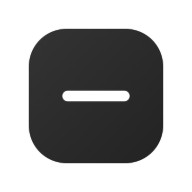
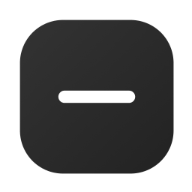
chore: 이미지 배경 있는걸로 수정

Changed region(s): [[0.0938, 0.0938, 0.9062, 0.9062], [0.2812, 0.4688, 0.7188, 0.5625]]

diff --git a/frontend/src/app/layout.tsx b/frontend/src/app/layout.tsx
@@ -34,7 +34,7 @@ export const metadata: Metadata = {
   manifest: '/manifest.webmanifest',
   icons: {
     icon: '/web-app-icon-192x192.png',
-    apple: '/web-app-icon-192x192.png',
+    apple: '/apple-icon.png',
   },
   openGraph: {
     title: '개인의 기록을 넘어, 함께 만드는 추억',
